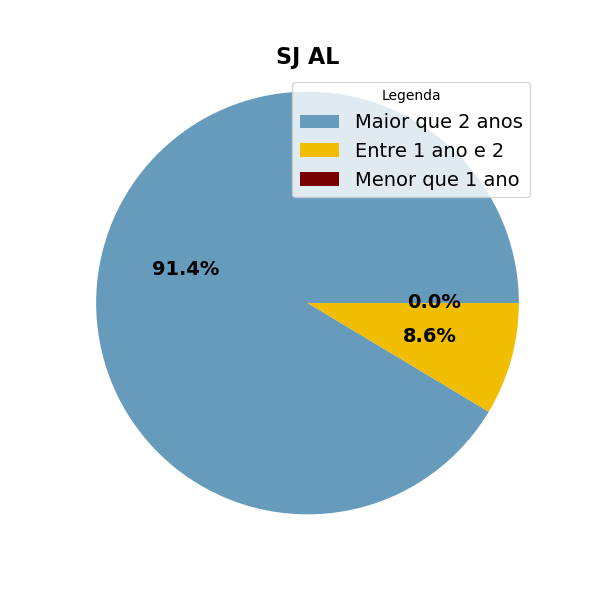
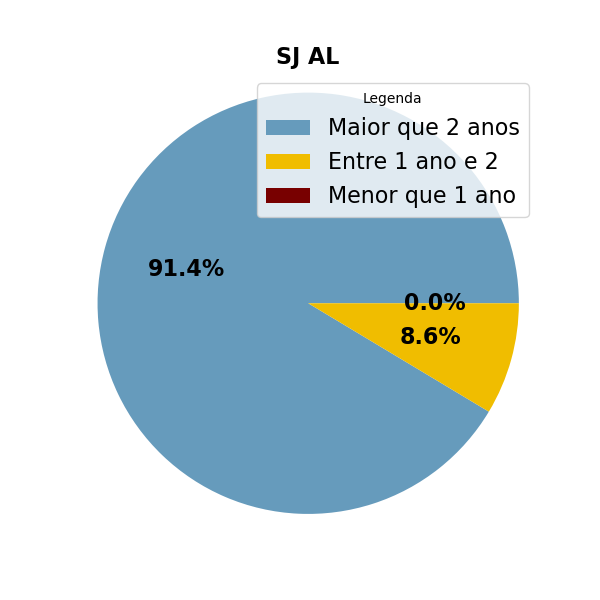
feat: versão apresentada na entrega dia 29/05

diff --git a/sender_alternative.py b/sender_alternative.py
@@ -16,7 +16,8 @@ strFrom = "instantredalert@gmail.com"
 #sender_email = "instantredalert@gmail.com"
 #receiver_email = "r_juscelinoaraujo@jfrn.jus.br"
 #receiver_email = "deboracamilanobre@gmail.com"
-strTo = "t_jfmendonca@trf5.jus.br"
+#strTo = "matheusk500@hotmail.com"
+strTo = "matheusk500@hotmail.com"
 #receiver_email = "vitor848485@gmail.com"
 password = 'ymmh doef rovb ntvk'
     
@@ -55,7 +56,6 @@ variable = """
     <meta name="viewport" content="width=device-width, initial-scale=1.0">
     <title>Relatório Mensal de Prescrição e Improbidade Administrativa</title>
     <style>
-
         body {
             font-family: "Verdana", "sans-serif";
         }
@@ -84,6 +84,7 @@ variable = """
             align-items: center;
             margin: 2em auto; /* centraliza a tabela horizontalmente */
             display: table; /* para centralizar verticalmente */
+            border-spacing: 0; /* remove o espaçamento entre as células da tabela */
         }
 
         .footer {
@@ -96,7 +97,9 @@ variable = """
 
         .grafico {
             width: 14em;
-            padding: 0 2em;
+            padding: 0; /* remove o padding entre as imagens */
+            margin: 0; /* remove a margem entre as imagens */
+            display: block; /* garante que a imagem seja tratada como um bloco */
         }
 
         table {
@@ -138,7 +141,7 @@ variable = """
             Administrativa e Geral
             <span id="sigla"></span>
         </p>
-        <p class="subtitulo">Data de extração: <strong id="data_extracao">"""+str(data)+"""</strong></p>
+        <p class="subtitulo">Data de extração: <strong id="data_extracao">""" + str(data) + """</strong></p>
 
         <table class="tabela_de_imagens">
             <tr>
@@ -185,6 +188,7 @@ variable = """
         TRF5 - Tribunal Regional Federal da 5ª Região
     </div>
 </body>
+
 """
 
 

diff --git a/gerarGrafico.py b/gerarGrafico.py
@@ -18,13 +18,13 @@ for i in range(len(dataframe)):
     titulo = f'SJ {dataframe.iloc[i].iloc[0]}'  # Usando iloc[] para acessar por posição
     
     # Configurando o estilo da fonte para os valores
-    fonte_valores = {'fontsize': 14, 'fontweight': 'bold'}
+    fonte_valores = {'fontsize': 16, 'fontweight': 'bold'}
     
     # Criando o gráfico de pizza sem labels
     plt.pie(y, colors=cores, autopct='%1.1f%%', textprops=fonte_valores)
     
     # Criando a legenda com as cores correspondentes
-    plt.legend(labels=labels, loc='upper right', fontsize=14, title='Legenda')
+    plt.legend(labels=labels, loc='upper right', fontsize=16, title='Legenda')
     
     # Configurando o estilo da fonte para o título do gráfico
     plt.title(titulo, fontsize=16, fontweight='bold')
